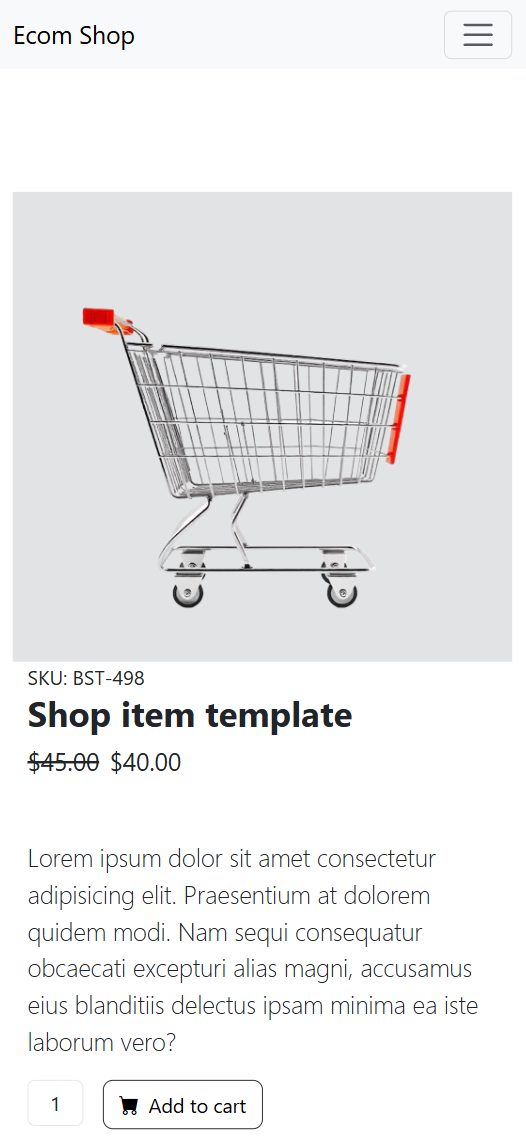
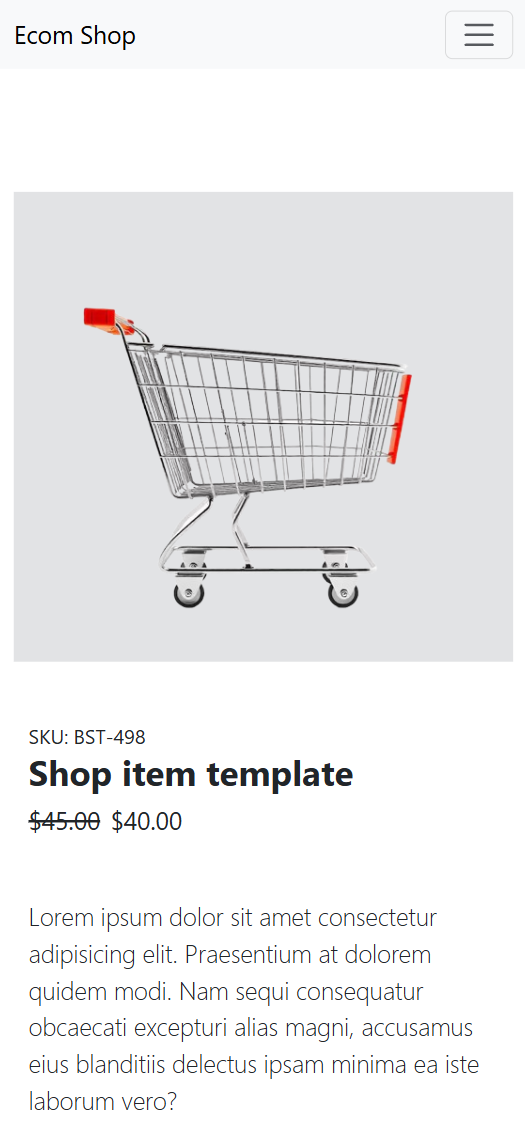
Fix code for phone size  and replace phone size screenshot

diff --git a/b. e-commerce-website/index.html b/b. e-commerce-website/index.html
@@ -82,12 +82,12 @@
                     </div>
 
                     <!-- Content -->
-                    <div class="col-sm-12 col-md-6 ps-sm-0 ps-md-4 ps-lg-5 mt-sm-5">
+                    <div class="col-sm-12 col-md-6 ps-sm-0 ps-md-4 ps-lg-5 mt-5 mt-sm-5 mt-md-0">
                         <span>SKU: BST-498</span>
                         <h1 class="fs-1 fw-bold">Shop item template</h1>
                         <span class="fs-5 text-decoration-line-through">$45.00</span>
                         <span class="fs-5 ms-1">$40.00</span>
-                        <p class="mt-5 fs-5 fw-light">Lorem ipsum dolor sit amet consectetur adipisicing elit.
+                        <p class="mt-5 mb-4 mb-sm-4 mb-md-3 fs-5 fw-light">Lorem ipsum dolor sit amet consectetur adipisicing elit.
                             Praesentium at dolorem
                             quidem modi.
                             Nam sequi consequatur obcaecati excepturi alias magni, accusamus eius blanditiis delectus